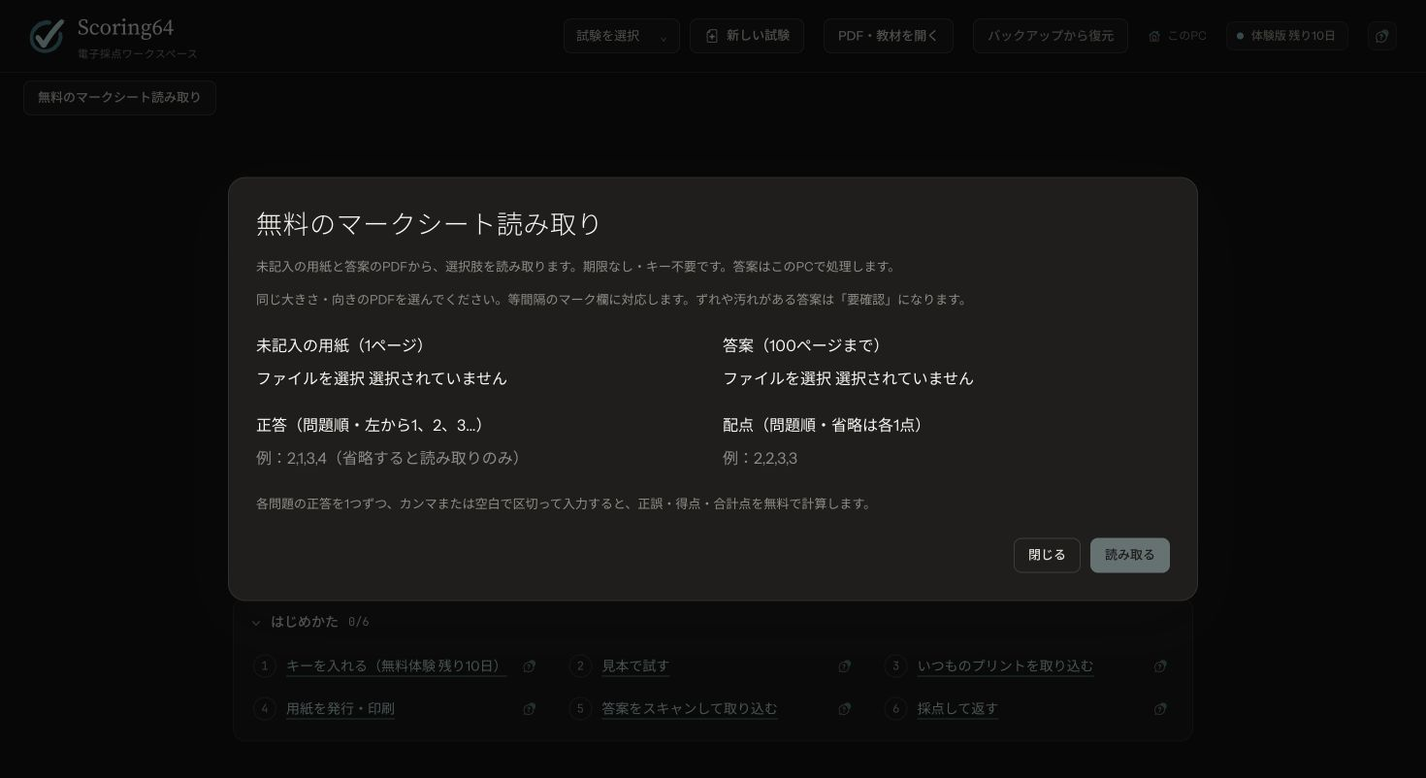
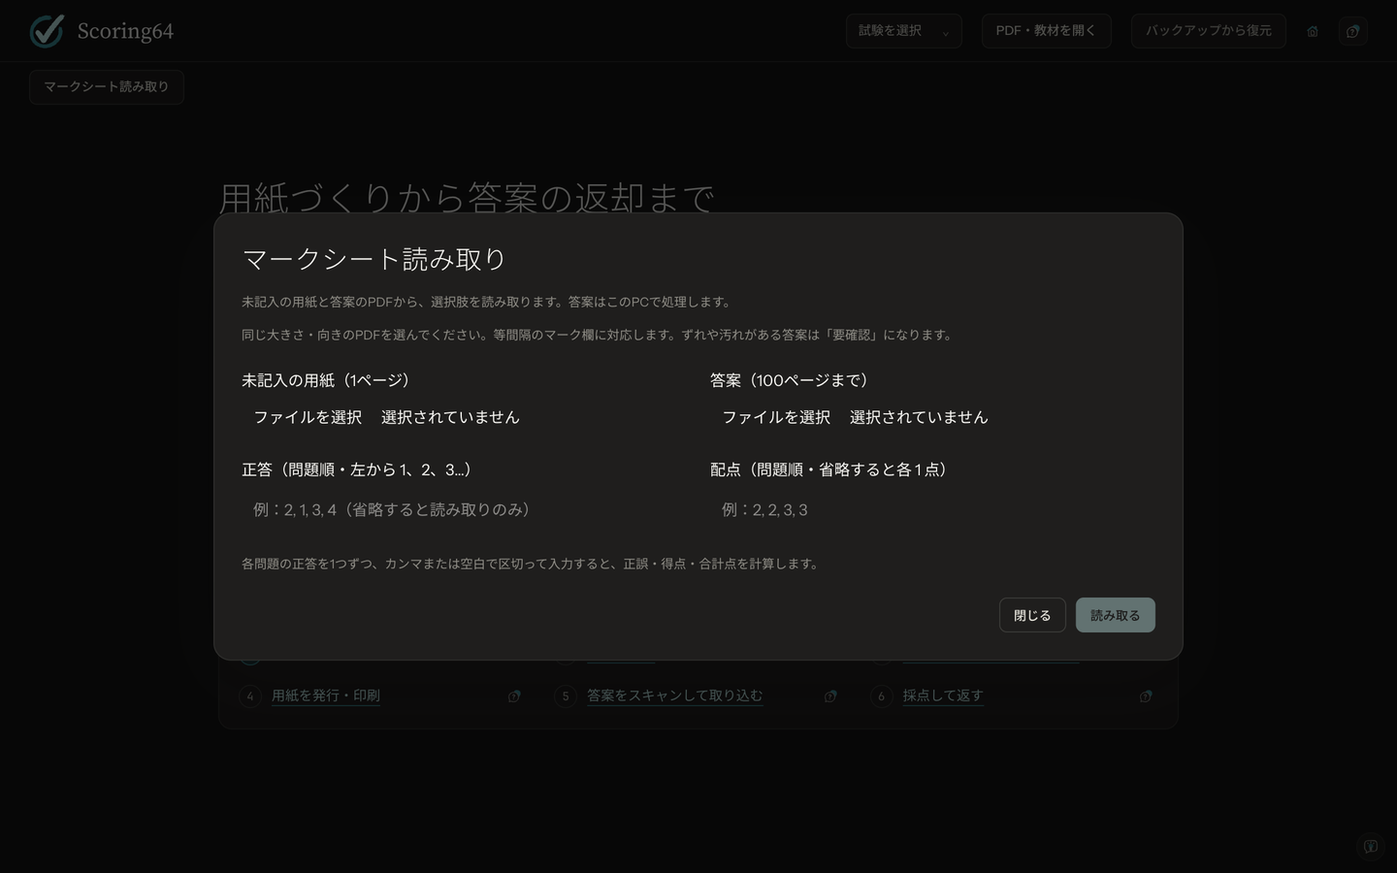
Update help site for 1.0.7 candidate: new screenshots, dedicated window, TeX/update FAQ, free mark reading

diff --git a/guide.html b/guide.html
@@ -53,7 +53,7 @@
     <div class="prose">
       <h2 id="need-title">用意するもの</h2>
       <table class="table stack">
-        <tr><th scope="row">パソコン</th><td>Windows 10／11（64ビット）、または Apple Silicon（M1 以降）の Mac。使うときにインターネットは要りません</td></tr>
+        <tr><th scope="row">パソコン</th><td>Windows 10／11（64ビット）、または Apple Silicon（M1 以降）の Mac。採点や読み取りにインターネットは要りません（新しい版の確認と TeX の準備のときだけ使います）</td></tr>
         <tr><th scope="row">プリンター</th><td>用紙を等倍で印刷できるもの</td></tr>
         <tr><th scope="row">スキャナー</th><td>塾の複合機で構いません。PDFで保存でき、200〜300dpiで読み取れるもの</td></tr>
         <tr><th scope="row">生徒の筆記用具</th><td>記号問題は、HBかBの鉛筆で塗りつぶします</td></tr>
@@ -93,7 +93,20 @@
           <li>下線の空欄は15mm以上にします。</li>
         </ul>
       </div>
-      <p class="muted small">アプリの中で用紙を作ることもできます（<span class="ui">「新しい試験」</span>から。TeX（無料）を入れたパソコンで使えます）。</p>
+      <p class="muted small">アプリの中で用紙を作ることもできます（<span class="ui">「新しい試験」</span>から）。用紙の組版に TeX（無料）を使います。パソコンに TeX がなければ、<span class="ui">「新しい試験」</span>や<span class="ui">「？」</span>の<span class="ui">「TeX の状態」</span>から、軽量版かフル版を選んで準備できます（初回はインターネットに接続します）。Word・Excel のPDFを取り込むだけなら、TeX は要りません。</p>
+      <details class="more">
+        <summary>アプリで用紙を作るときの操作</summary>
+        <div>
+          <ol class="steps">
+            <li><span class="ui">「新しい試験」</span>で試験名を入れ、最初の用紙を選びます。<span class="ui">「番号・氏名欄付きの文書」</span>が最初に選ばれています。<span class="ui">「白紙の文書」</span>、<span class="ui">「共通テスト用マークシート」</span>（22科目）、<span class="ui">「登録したテンプレートから作成」</span>（東大の編集版8種を含む）、<span class="ui">「これまでの試験を複製」</span>からも始められます。</li>
+            <li>紙面をクリックして追加する位置を決め、<span class="ui">「＋ 部品を追加」</span>で解答欄・文字・数式・図などを置きます。欄は、<span class="ui">「追加先」</span>に出ている大問に入ります。自動のままでも、大問を選んでもかまいません。</li>
+            <li>紙面の何もないところをドラッグすると、触れた欄をまとめて選べます（<span class="key">Ctrl</span> + <span class="key">A</span> ですべて）。選んだ欄は、<span class="key">Ctrl</span> + <span class="key">C</span>・<span class="key">X</span>・<span class="key">V</span> でコピー・切り取り・貼り付けできます。</li>
+            <li>文字の書体は、メニューから選べます。このパソコンにある書体は<span class="ui">「その他の書体」</span>に並びます。</li>
+            <li>よく使う用紙は、<span class="ui">「テンプレート登録」</span>で保存しておけます。</li>
+          </ol>
+          <p class="muted small">紙面は画面でそのまま描き、TeX は裏で仕上がりを確かめます。東大の編集版は配点が0点から始まるので、確定する前に入れてください。</p>
+        </div>
+      </details>
     </div>
   </section>
 
@@ -103,12 +116,12 @@
       <h2 id="step2-title">正解と配点</h2>
       <ol class="steps">
         <li>右の欄の<span class="ui">「正解・配点を一覧で入力」</span>を押します。</li>
-        <li>記号問題の正解を、順に打ちます（例：<code>3142</code>）。Excel の正解表を貼り付けることもできます。記述問題の「正解」に模範解答を書いておくと、採点のときに画面の上に出ます。</li>
+        <li>記号問題は、<span class="ui">「連続入力の開始欄」</span>を選び、正解を順に打って<span class="ui">「正解を反映」</span>を押します（例：<code>3142</code>）。Excel の正解表を貼り付けることもできます。記述問題の「正解」に模範解答を書いておくと、採点のときに画面の上に出ます。</li>
         <li>配点と採点方式を選びます。</li>
         <li>右上の<span class="ui">「用紙を確定して発行へ」</span>を押します。確かめる点が一覧で出るので、<span class="ui">「保存して確定する」</span>を押します。保存・印刷用PDFの作成・用紙版の確定が続けて進みます。</li>
       </ol>
       <figure class="shot wide">
-        <a class="zoom" href="assets/img/s08-answer-key.webp"><img src="assets/img/s08-answer-key.webp" width="1440" height="900" loading="lazy" alt="正解・配点の一覧の画面。問題ごとに正解、配点、採点方式を入れる行が並ぶ"></a>
+        <a class="zoom" href="assets/img/s08-answer-key.webp"><img src="assets/img/s08-answer-key.webp" width="1440" height="900" loading="lazy" alt="正解・配点の入力の画面。上に連続入力の開始欄と正解を入れる欄、下に問題ごとの正解、配点、採点方式の行が並ぶ"></a>
         <figcaption><span class="fig-no">図 3</span>正解・配点の一覧</figcaption>
       </figure>
       <details class="more">
@@ -148,7 +161,7 @@
           </div>
         </div>
         <figure class="shot tall">
-          <a class="zoom" href="assets/img/s09-issue.webp"><img src="assets/img/s09-issue.webp" width="420" height="1073" loading="lazy" alt="用紙の発行の欄。人数、名簿CSVを選ぶ、氏名・生徒番号を事前印字、印刷用PDFを作成のボタンが並ぶ"></a>
+          <a class="zoom" href="assets/img/s09-issue.webp"><img src="assets/img/s09-issue.webp" width="420" height="1090" loading="lazy" alt="用紙の発行の欄。新しく発行する人数、名簿CSVを選ぶ、氏名・生徒番号を事前印字、印刷用PDFを作成のボタンが並び、下にスキャンPDFを入れる欄がある"></a>
           <figcaption><span class="fig-no">図 4</span>用紙の発行</figcaption>
         </figure>
       </div>
@@ -162,7 +175,7 @@
       <ol class="steps">
         <li>答案を複合機で読み取り、PDFにします。クラス分をまとめて1つのPDFにして構いません。</li>
         <li>左の<span class="ui">「スキャンPDF」</span>に、PDFを選ぶかドラッグして入れます。複数のファイル・両面にも対応します。向きと表裏の順番は、QRコードで自動で整えます。</li>
-        <li><span class="ui">「取り込んだ答案」</span>の上の<span class="ui">「直すページ」</span>（誰の答案か分からない・位置合わせに失敗・重複）、<span class="ui">「答案がまだない用紙を見る」</span>、<span class="ui">「氏名を確認」</span>で、残っているものを確かめます。</li>
+        <li>残っているものがあると、<span class="ui">「取り込んだ答案」</span>の上に<span class="ui">「直すページ」</span>（誰の答案か分からない・位置合わせに失敗・重複）や<span class="ui">「答案がまだない用紙を見る」</span>、<span class="ui">「氏名を確認」</span>が出ます。押して確かめます。</li>
       </ol>
       <table class="table stack" aria-label="スキャナーの設定">
         <tr><th scope="row">解像度</th><td>200〜300dpi</td></tr>
@@ -186,11 +199,12 @@
       <h3>記述問題は1問ずつ</h3>
       <ol class="steps">
         <li><span class="ui">「採点」</span>のタブで問題を選びます。</li>
-        <li>答案が1人ずつ大きく出ます。<span class="ui">「○」</span>（満点）・<span class="ui">「△」</span>（部分点）・<span class="ui">「✓」</span>（0点）のボタンで採点すると、次の生徒に進みます。キーボードなら Space で満点、0 で0点、数字で部分点です。</li>
+        <li>答案が1人ずつ大きく出ます。画面の下の<span class="ui">「満点」</span>（○）・<span class="ui">「0点」</span>（✓）・<span class="ui">「部分点」</span>（△）のボタンで採点すると、次の生徒に進みます。キーボードなら Space（か Enter）で満点、X か 0 で0点、P で部分点です。</li>
+        <li><span class="ui">「部分点」</span>を押すとテンキーが開きます。0点から配点までの整数を入れ、<span class="ui">「確定」</span>か Enter で決めます（Esc で取り消し）。9点以下の問題は、数字キーを押すだけでその点になります。</li>
         <li>必要なら<span class="ui">「コメントを置く」</span>（C キー）で答案に書き込みます。</li>
       </ol>
       <figure class="shot wide">
-        <a class="zoom" href="assets/img/s10-grading.webp"><img src="assets/img/s10-grading.webp" width="1440" height="900" loading="lazy" alt="記述問題の採点画面。上に模範解答、中央に生徒の答案、右に採点の一覧が出ている"></a>
+        <a class="zoom" href="assets/img/s10-grading.webp"><img src="assets/img/s10-grading.webp" width="1440" height="900" loading="lazy" alt="記述問題の採点画面。上に模範解答の欄、中央に生徒の答案、下に満点・0点・部分点の3つのボタン、右に採点内容の一覧が出ている"></a>
         <figcaption><span class="fig-no">図 6</span>1人ずつ採点。上に模範解答（登録したとき）、右に採点の一覧</figcaption>
       </figure>
       <div class="note">
@@ -223,9 +237,9 @@
 
 <section class="section" id="free-marks" aria-labelledby="free-marks-title"><div class="prose">
   <h2 id="free-marks-title">無料のマークシート読み取り・採点</h2>
-  <p>アプリ上部の「無料のマークシート読み取り」を押します。期限なし・キー不要で、答案はこのPCで処理します。</p>
-  <ol class="steps"><li>未記入の用紙（1ページのPDF）と答案PDF（100ページまで）を選びます。各PDFは20MB以内。同じページサイズ・向きにそろえてください。</li><li>用紙上で最初のマーク欄の左上をクリックし、問題数・選択肢数・欄の間隔と大きさを入力します。赤い枠をマーク欄に合わせます。等間隔のマーク欄に対応します。</li><li>「読み取る」を押します。選択肢は左から1、2、3…です。「複数マーク」「要確認」は答案と見比べてください。</li><li>正答と配点を問題順に入力して「読み取り・採点」を押すと、正誤・得点・ページごとの合計点を計算します。「結果CSV」で保存できます。複数マーク・要確認があるページは合計点を確定せず、小計を表示します。記述採点・成績表・返却PDFの作成は有料版の機能です。</li></ol>
-  <figure class="shot"><a class="zoom" href="assets/img/free-marks.png"><img src="assets/img/free-marks.png" width="1470" height="802" loading="lazy" alt="無料のマークシート読み取り画面。未記入の用紙・答案PDFと、正答・配点を入力する欄"></a><figcaption>無料のマークシート読み取り</figcaption></figure>
+  <p>最初の画面の<span class="ui">「マークシート読み取り」</span>を押します。期限なし・キー不要で、答案はこのPCで処理します。</p>
+  <ol class="steps"><li>未記入の用紙（1ページのPDF）と答案PDF（100ページまで）を選びます。各PDFは20MB以内。同じページサイズ・向きにそろえてください。</li><li>用紙上で最初のマーク欄の左上をクリックし、問題数・選択肢数・横間隔・縦間隔・マーク欄の大きさを入力します。赤い枠をマーク欄に合わせます。等間隔のマーク欄に対応します。</li><li>「読み取る」を押します。選択肢は左から1、2、3…です。「複数マーク」「要確認」は答案と見比べてください。</li><li>正答と配点を問題順に入力して「読み取り・採点」を押すと、正誤・得点・ページごとの合計点を計算します。「結果CSV」で保存できます。要確認があるページも、読み取り候補で採点して合計点と要確認の問数を表示します（複数マークや候補のない問題は0点です）。要確認の答案は用紙と見比べ、合計点をそのまま確定した点にしないでください。記述採点・成績表・返却PDFの作成は有料版の機能です。</li></ol>
+  <figure class="shot"><a class="zoom" href="assets/img/free-marks.png"><img src="assets/img/free-marks.png" width="1440" height="900" loading="lazy" alt="無料のマークシート読み取り画面。未記入の用紙・答案PDFと、正答・配点を入力する欄"></a><figcaption>無料のマークシート読み取り</figcaption></figure>
 </div></section>
 </main>
 

diff --git a/faq.html b/faq.html
@@ -76,7 +76,7 @@
       <div class="qa" id="q-undo">
         <h3>編集を元に戻したい</h3>
         <div class="a">
-          <p>用紙作成では <span class="key">Ctrl</span> + <span class="key">Z</span> で戻せます。保存しないまま閉じた編集は、次に開いたときに右上に出る赤いカードの<span class="ui">「編集を戻す」</span>から戻せます。</p>
+          <p>用紙作成では <span class="key">Ctrl</span> + <span class="key">Z</span> で戻せます（やり直しは <span class="key">Ctrl</span> + <span class="key">Y</span>）。保存しないまま閉じた編集は、次に開いたときに右上に出る赤いカードの<span class="ui">「編集を戻す」</span>から戻せます。</p>
         </div>
       </div>
 
@@ -109,6 +109,22 @@
         </div>
       </div>
 
+      <div class="qa" id="q-tex">
+        <h3>アプリで用紙を作るのに TeX が要りますか</h3>
+        <div class="a">
+          <p>Word・Excel のPDFを取り込んで使うだけなら、TeX は要りません。アプリの中で用紙を作る（<span class="ui">「新しい試験」</span>）ときは、用紙の組版に TeX（無料）を使います。パソコンにすでにあれば、それを使います。</p>
+          <p>ないときは、<span class="ui">「新しい試験」</span>や<span class="ui">「？」</span>の<span class="ui">「TeX の状態」</span>から準備できます。軽量版は1〜5分、フル版は30分〜2時間ほどです。初回はインターネットへの接続が要ります。パソコンの設定は変えません。</p>
+        </div>
+      </div>
+
+      <div class="qa" id="q-update">
+        <h3>新しい版が出たら、どうすればいいですか</h3>
+        <div class="a">
+          <p>新しい版のダウンロードが済むと、<span class="ui">「再起動して更新」</span>が出ます。編集中の用紙を保存してから更新し、同じデータで起動し直します。<span class="ui">「あとで」</span>を選んでも、<span class="ui">「？」</span>の<span class="ui">「アップデートを確認」</span>から戻れます。更新の確認にはインターネットへの接続が要ります。</p>
+          <p>自動更新に対応していない旧版は、最初の1回だけ新しいインストーラーを入れてください。データは消えません。</p>
+        </div>
+      </div>
+
       <div class="qa" id="q-scanner">
         <h3>どのスキャナーを使えばいいですか</h3>
         <div class="a">
@@ -120,7 +136,7 @@
       <div class="qa" id="q-privacy">
         <h3>答案や成績が、外部に送られることはありますか</h3>
         <div class="a">
-          <p>ありません。答案の画像・成績・名簿は、塾のパソコンの中だけで処理します。使うときにインターネットへの接続も要りません。</p>
+          <p>ありません。答案の画像・成績・名簿は、塾のパソコンの中だけで処理します。採点や読み取りにインターネットへの接続は要りません。接続を使うのは、新しい版の確認とダウンロード、アプリで用紙を作るための TeX の準備のときだけです。</p>
         </div>
       </div>
 
@@ -136,7 +152,7 @@
         <h3>バックアップはどうすればいいですか</h3>
         <div class="a">
           <p><span class="ui">「出力・バックアップ」</span>のタブの<span class="ui">「全試験をバックアップ」</span>で、すべての試験を1つのファイルに保存します。採点が終わるたびに取り、USBメモリなど別の場所にも置いてください。</p>
-          <p>画面の右上の点が緑ならバックアップ済み、黄色なら未作成か、前回から変更があります。</p>
+          <p>最後のバックアップから変更があるときは、画面の右上に黄色で<span class="ui">「未バックアップの変更」</span>と出ます（長く取っていないときは<span class="ui">「バックアップなし」</span>）。出ていなくても、採点が終わるたびに取っておくと安心です。</p>
         </div>
       </div>
     </div>

diff --git a/start.html b/start.html
@@ -153,14 +153,14 @@
       <h2 id="first-title">初めて開く</h2>
       <ol class="steps">
         <li>インストールが終わると、Scoring64 が開きます。次からは、スタートメニューかデスクトップの<span class="ui">「Scoring64」</span>から開きます。Mac では<span class="ui">「アプリケーション」</span>フォルダの<span class="ui">「Scoring64」</span>から開きます。</li>
-        <li>Windows でも Mac でも、Scoring64 の専用のウィンドウが開きます（ブラウザは使いません）。<b>初めての起動は30秒ほどかかる</b>ことがあります。</li>
+        <li>Windows でも Mac でも、Scoring64 の専用のウィンドウが開きます。ブラウザは開きません。<b>初めての起動は30秒ほどかかる</b>ことがあります。</li>
       </ol>
       <div class="note">
         <span class="note-label">NOTE</span>
-        <p>インターネットにはつながず、このパソコンの中だけで動きます。</p>
+        <p>採点や読み取りはインターネットにつながず、このパソコンの中だけで動きます。ウィンドウを閉じると、採点の処理も終わります。新しい版の確認と、アプリで用紙を作るための TeX の準備のときだけ、接続を使います。</p>
       </div>
       <figure class="shot wide">
-        <a class="zoom" href="assets/img/s01-welcome.webp"><img src="assets/img/s01-welcome.webp" width="1440" height="900" loading="lazy" alt="Scoring64 の最初の画面。上に「新しい試験」「PDF・教材を開く」「バックアップから復元」のボタンが並ぶ"></a>
+        <a class="zoom" href="assets/img/s01-welcome.webp"><img src="assets/img/s01-welcome.webp" width="1440" height="900" loading="lazy" alt="Scoring64 の最初の画面。上に「PDF・教材を開く」「バックアップから復元」のボタンが並び、中ほどに「見本で試す」と「最初の試験を作成」のボタンがある"></a>
         <figcaption><span class="fig-no">図 5</span>最初の画面</figcaption>
       </figure>
     </div>
@@ -179,7 +179,7 @@
       </ol>
       <div class="note">
         <span class="note-label">NOTE</span>
-        <p>10日が過ぎても、無料のマークシート読み取り・正誤判定・得点計算・結果CSV・見本・保存済みデータの閲覧・バックアップ・復元は使えます。用紙作成・記述採点・成績表・返却PDFなどは有料版の機能です。データは消えません。</p>
+        <p>期限が近づくと、右上の表示が黄色になります。10日が過ぎても、無料のマークシート読み取り・正誤判定・得点計算・結果CSV・見本・保存済みデータの閲覧・バックアップ・復元は使えます。用紙作成・記述採点・成績表・返却PDFなどは有料版の機能で、ボタンが暗くなります。押すと、条件とキーの入力先が出ます。データは消えません。</p>
       </div>
     </div>
   </section>
@@ -196,7 +196,7 @@
         <li>記述問題を、1人ずつ採点します。</li>
         <li>返却データを作ります。</li>
       </ol>
-      <p>いつものプリントで使うときは、<a href="guide.html">使い方</a>を見てください。</p>
+      <p>見本は、画面の<span class="ui">「最初から」</span>で何度でもやり直せます。見本の試験は、キーがなくても出力できます。いつものプリントで使うときは、<a href="guide.html">使い方</a>を見てください。</p>
     </div>
   </section>
 

diff --git a/contact.html b/contact.html
@@ -52,7 +52,7 @@
       <h3>書いていただきたいこと</h3>
       <ul class="dots">
         <li>塾名・教室名</li>
-        <li>アプリの版（例：1.0.0）</li>
+        <li>アプリの版（例：1.0.7。<span class="ui">「？」</span>のメニューに出ます）</li>
         <li>ライセンスID（右上のキーの表示を押すと出ます。<code>L-</code> で始まる番号）</li>
         <li>困っている画面の写真</li>
       </ul>
@@ -60,7 +60,7 @@
 
       <div class="note">
         <span class="note-label">TIPS</span>
-        <p>アプリの右上の<span class="ui">「？」</span>から、必要な情報が入ったメールを開けます。</p>
+        <p>アプリの右上の<span class="ui">「？」</span>の<span class="ui">「問い合わせ」</span>から、必要な情報が入ったメールを開けます。</p>
       </div>
     </div>
   </section>
@@ -68,7 +68,7 @@
   <section class="section" id="feedback" aria-labelledby="feedback-title">
     <div class="prose">
       <h2 id="feedback-title">改善点フォーム</h2>
-      <p>使いにくいところ、不具合、欲しい機能を、フォームからもお知らせいただけます。ログインは要りません。</p>
+      <p>使いにくいところ、不具合、欲しい機能を、フォームからもお知らせいただけます。ログインは要りません。アプリの右下の小さなボタンからも開けます。</p>
       <a class="btn btn-primary" href="https://forms.gle/FFS7UX9VydyHLgBT7">改善点フォームを開く</a>
       <p class="muted small after-grid">画面の写真を添えたいときは、メールでお送りください。</p>
     </div>

diff --git a/README.md b/README.md
@@ -17,8 +17,8 @@
 
 - Windows 10／11（64ビット）
 - Apple Silicon の Mac（M1 以降）
-- 専用のウィンドウで開きます。ブラウザは要りません。
-- 管理者の権限は要りません。使うときにインターネットへの接続は要りません。答案と成績は、このパソコンの中だけで処理します。
+- Scoring64 の専用ウィンドウで動きます（ブラウザは開きません）。
+- 管理者の権限は要りません。採点や読み取りにインターネットへの接続は要りません（新しい版の確認と、アプリで用紙を作るための TeX の準備のときだけ使います）。答案と成績は、このパソコンの中だけで処理します。
 
 ## インストールのときの表示
 
@@ -29,7 +29,7 @@
 
 ## ライセンスキー
 
-初めて使うときから10日間は、すべての機能を試せます。マークシートの読み取り・正誤判定・得点計算・結果CSVは、その後もキーなしで使えます。用紙作成・記述採点・成績表・返却PDFなどには、ご契約のときにお送りするライセンスキーが要ります。
+マークシートの読み取り・正誤判定・得点計算・結果CSVは、期限なし・キー不要で使えます。用紙作成・記述採点・成績表・返却PDFなどは、入れた日から10日間は無料で試せます。その後はPC専用のキーが要ります。キーはご契約のときに、メールでお送りします（1契約につき最大5台）。
 
 ## お問い合わせ
 
